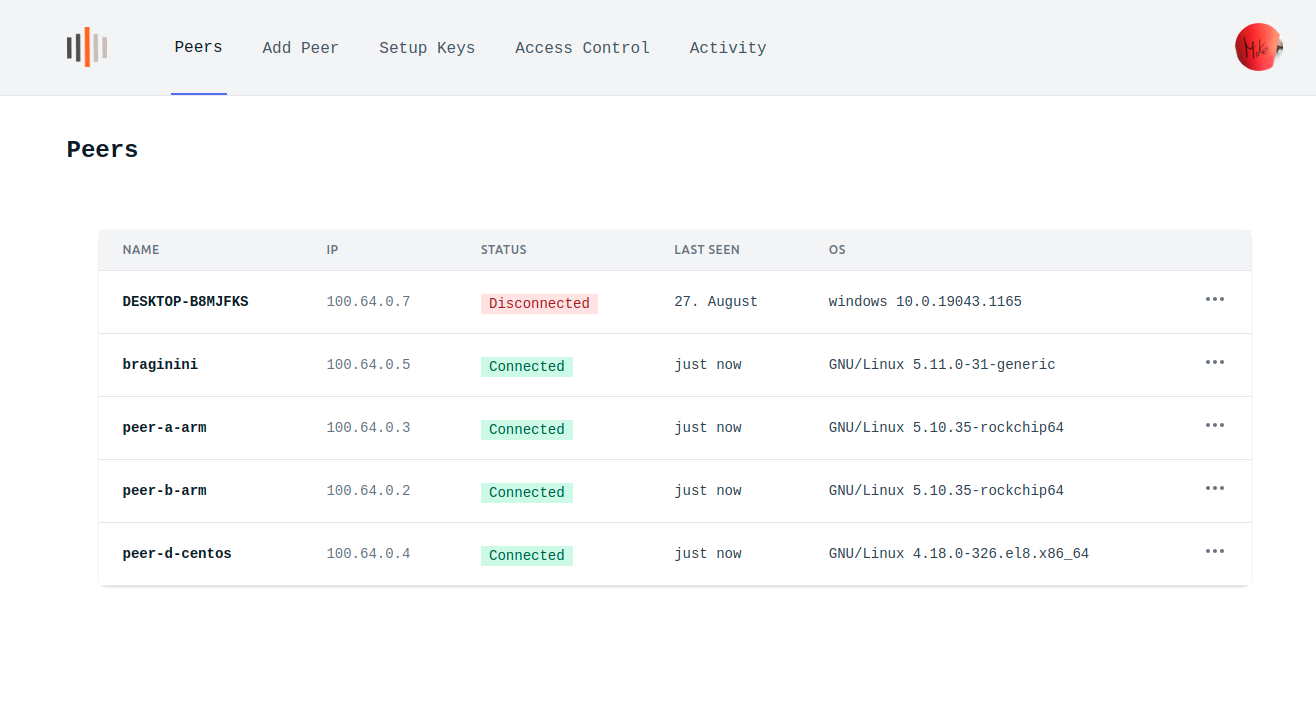
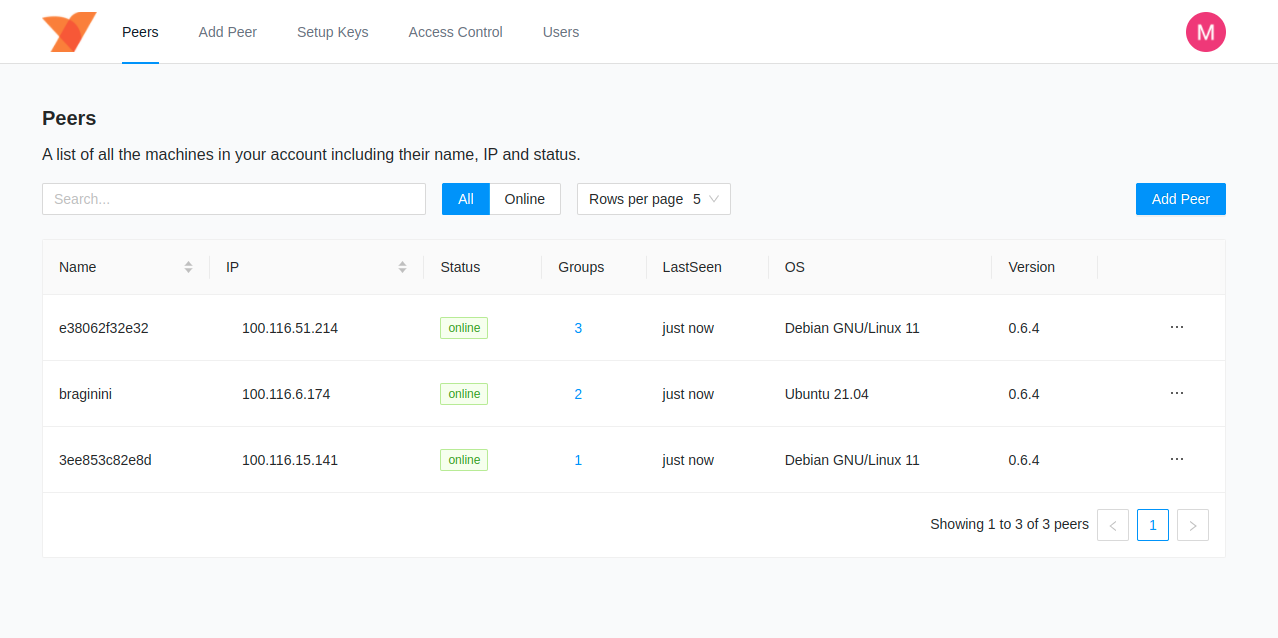
Update readme and media

diff --git a/README.md b/README.md
@@ -1,22 +1,20 @@
 # NetBird dashboard
 
-### Big News! Wiretrustee becomes `NetBird`. [See details](https://blog.netbird.io/wiretrustee-becomes-netbird).
-\
-This project is the UI for NetBird's management service. 
+This project is the UI for NetBird's Management service.
 
-**Hosted demo version:** https://app.netbird.io/
+**Hosted version:** https://app.netbird.io/
 
 See [NetBird repo](https://github.com/netbirdio/netbird)
 
-## Why UI dashboard is needed?
+## Why?
 
 The purpose of this project is simple - make it easy to manage VPN built with [NetBird](https://github.com/netbirdio/netbird).
 The dashboard makes it possible to:
 - track the status of your peers
-- remove Peers
+- remove peers
 - manage Setup Keys (to authenticate new peers)
-- monitor system activity (coming soon)
-- manage peer access (coming soon)
+- list users
+- define access controls
 
 ## Some Screenshots
 <img src="./media/auth.png" alt="auth" width="350"/>
@@ -27,11 +25,11 @@ The dashboard makes it possible to:
 ## Technologies Used
 
 - ReactJS
-- Tailwind CSS. We are using paid License of [TailwindUI](https://tailwindui.com/)
+- AntD UI framework
 - Auth0
-- Nginx 
+- Nginx
 - Docker
-- Letsencrypt
+- Let's Encrypt
 
 ## How to run
 Disclaimer. We believe that proper user management system is not a trivial task and requires quite some effort to make it right. Therefore we decided to
@@ -40,18 +38,18 @@ Auth0 so far is the only 3rd party dependency that can't be really self-hosted.
 
 1. install [Docker](https://docs.docker.com/get-docker/)
 2. register [Auth0](https://auth0.com/) account
-3. running Wiretrustee UI Dashboard requires the following Auth0 environmental variables to be set (see docker command below): 
+3. running Wiretrustee UI Dashboard requires the following Auth0 environmental variables to be set (see docker command below):
 
-      ```AUTH0_DOMAIN``` ```AUTH0_CLIENT_ID``` ```AUTH0_AUDIENCE```
-      
-      To obtain these, please use [Auth0 React SDK Guide](https://auth0.com/docs/quickstart/spa/react/01-login#configure-auth0) up until "Configure Allowed Web Origins"
+   ```AUTH0_DOMAIN``` ```AUTH0_CLIENT_ID``` ```AUTH0_AUDIENCE```
+
+   To obtain these, please use [Auth0 React SDK Guide](https://auth0.com/docs/quickstart/spa/react/01-login#configure-auth0) up until "Configure Allowed Web Origins"
 
 4. Wiretrustee UI Dashboard uses Wiretrustee Management Service HTTP API, so setting ```WIRETRUSTEE_MGMT_API_ENDPOINT``` is required. Most likely it will be ```http://localhost:33071``` if you are hosting Management API on the same server.
 5. Run docker container without SSL (Let's Encrypt):
-   
+
    ```docker run -d --name wiretrustee-dashboard --rm -p 80:80 -p 443:443  -e AUTH0_DOMAIN=<SET YOUR AUTH DOMAIN> -e AUTH0_CLIENT_ID=<SET YOUR CLIENT ID> -e AUTH0_AUDIENCE=<SET YOUR AUDIENCE> -e  WIRETRUSTEE_MGMT_API_ENDPOINT=<SET YOUR MANAGEMETN API URL> wiretrustee/dashboard:main```
 6. Run docker container with SSL (Let's Encrypt):
-   
+
    ```docker run -d --name wiretrustee-dashboard --rm -p 80:80 -p 443:443 -e NGINX_SSL_PORT=443 -e LETSENCRYPT_DOMAIN=<YOUR PUBLIC DOMAIN> -e LETSENCRYPT_EMAIL=<YOUR EMAIL>  -e AUTH0_DOMAIN=<SET YOUR AUTH DOMAIN> -e AUTH0_CLIENT_ID=<SET YOUR CLEITN ID> -e AUTH0_AUDIENCE=<SET YOUR AUDIENCE> -e  WIRETRUSTEE_MGMT_API_ENDPOINT=<SET YOUR MANAGEMETN API URL> wiretrustee/dashboard:main```
 
 ## How to run local development
